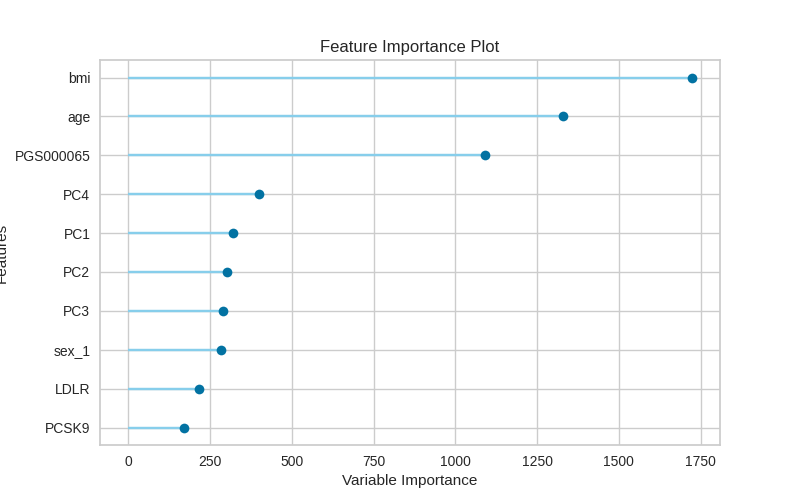
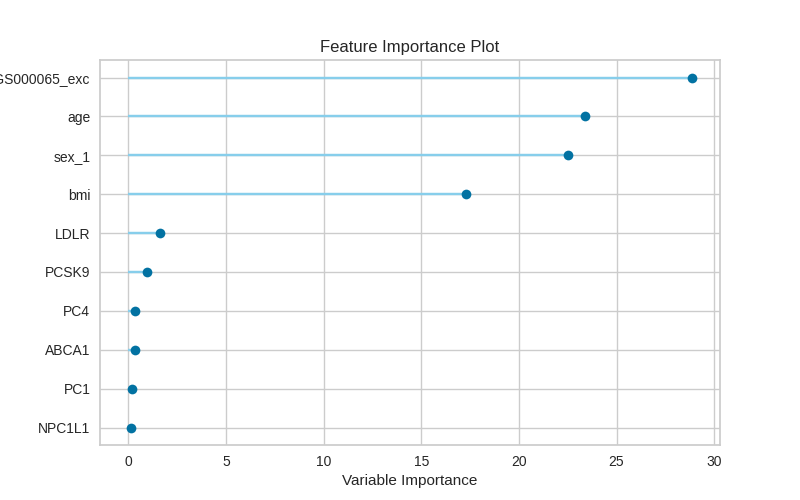
update ldl_models

diff --git a/docs/source/ldl_results.rst b/docs/source/ldl_results.rst
@@ -24,6 +24,11 @@ The Manhattan plot:
 
 Regression model
 *****************
+For the prediction model, we used LDL direct measurements are target. For features, we used the scores of 477 selected genes (https://doi.org/10.1038/nrg2779) + BMI + age + sex + PC1-4.
+We also used PRS (PGS000065), to avoid colinearty, we excluded variants that were included in the gene scores from the PRS calculation.
+We then ran the pipeline using 25% of the dataset as external testing set and 75% were used in training with 10-fold cross-validation.
+The final prediction model was generated using gradiant boosting regression (CatBooster) which had an Rˆ2 of  0.1412 and an RMSE of 0.8035.
+
 Feature importance plot:
 
 .. image:: ../../ldl_example/Feature_Importance.png
@@ -32,7 +37,7 @@ Feature importance plot:
 
 Actual vs Predicted:
 
-.. image:: ../../ldl_example/ldl_testing_regressor_scatterplot.png
+.. image:: ../../ldl_example/regressor_scatterplot.png
     :width: 400
     :align: center
 
